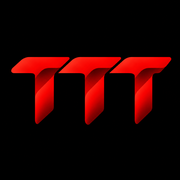
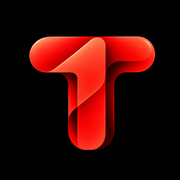
feat: 앱 로고를 새 빨간 T 심볼로 교체 (#763)
icon-192.png / icon-512.png / apple-touch-icon.png를 새 로고로 교체하고,
icons/splash/*.png(iOS 홈화면 실행 스플래시, 기기별 10종)도 같은 로고를
26vw 비율(bootSplash의 width:26vw와 동일 기준)로 중앙 배치해 새로 생성함
— 네이티브 iOS 스플래시 → 앱 내부 bootSplash로 넘어가는 순간 로고가
바뀌어 보이는(이중으로 겹쳐 보이는) 현상을 피하려면 둘의 로고가 항상
일치해야 하므로 함께 교체.

Claude-Session: https://claude.ai/code/session_01TNoGCWRQtXcfdnQwZ6HvCX

Changed region(s): [[0.0556, 0.1944, 0.9722, 0.8333]]

diff --git a/index.html b/index.html
@@ -12073,7 +12073,7 @@ const settingsHeaderName = document.getElementById("settingsHeaderName");
 const settingsHeaderSub = document.getElementById("settingsHeaderSub");
 
 /* ✅ 앱 버전 정의 — 의미 있는 수정/배포마다 올림(설정 화면에서 "최신 버전 받았는지" 확인용) */
-const APP_VERSION = "0.9.299";
+const APP_VERSION = "0.9.300";
 const appVersionDisplay = document.getElementById("appVersionDisplay");
 if (appVersionDisplay) {
   appVersionDisplay.textContent = APP_VERSION;
